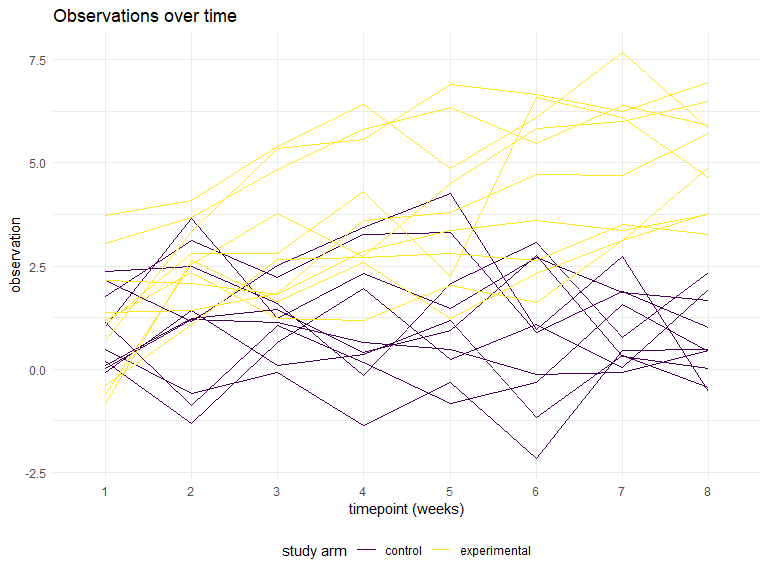
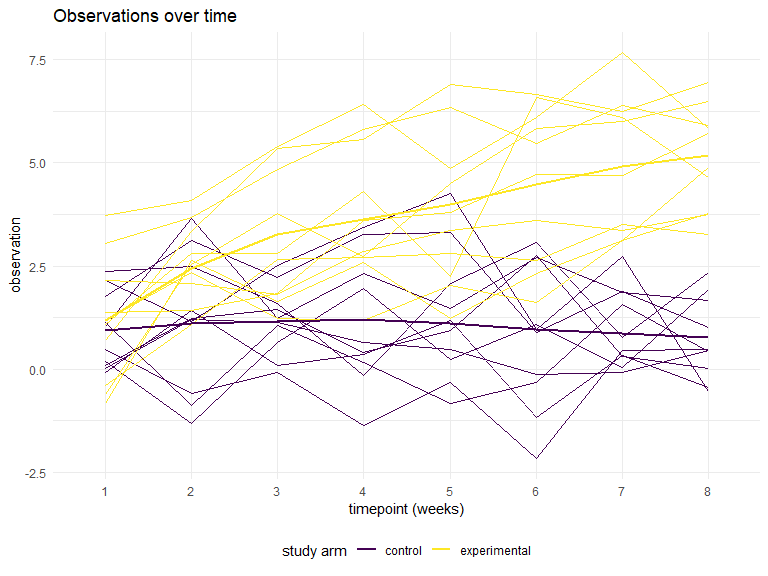
Add problem 3

diff --git a/p8105_hw5_jfh2150.md b/p8105_hw5_jfh2150.md
@@ -5,8 +5,6 @@ Ford Holland
 
 ## Problem 1
 
-Function to replace missing values in numeric and character vectors.
-
 ``` r
 replace_na = function(x) {
   if (!(is.numeric(x) | is.character(x))) {
@@ -21,9 +19,6 @@ replace_na = function(x) {
   }
 }
 ```
-
-Apply this function to the columns of `iris_with_missing` using a `map`
-statement.
 
 ``` r
 iris_imputed = map_df(.x = iris_with_missing, ~replace_na(.x))
@@ -58,19 +53,17 @@ df = tibble(
       map(pivot_longer, 
           week_1:week_8,
           names_to = "week", 
-          values_to = "observation"),
+          values_to = "observation",
+          names_prefix = "week_"),
     file = str_replace(file, "\\..*", "")
   ) %>% 
   rename(id = file)
 ```
 
-Make a spaghetti plot showing observations on each subject over time,
-and comment on differences between groups.
-
-It seems the treatment received by the experiment arm caused a
-noticeable increase in the observations. In fact, the control arm trends
-downward slightly over time, while the treatment arm displays a
-stronger, positive trend.
+It seems the treatment received by the experimental arm has a detectable
+effect. The observations for the experimental arm increase sharply in
+the first three weeks and continue the trend at a slightly lower rate
+over time. The control group’s observations remain consistent over time.
 
 ``` r
 df %>% 
@@ -78,30 +71,107 @@ df %>%
   mutate(
     group = factor(str_detect(id, "con"), 
                    levels = c(TRUE, FALSE),
-                   labels = c("control", "experimental")),
-    week = str_replace(week, "week_", "")
-    ) %>% 
+                   labels = c("control", "experimental"))
+  ) %>% 
   ggplot(aes(x = week, y = observation, group = id, color = group)) +
   geom_line() +
+  geom_smooth(aes(group = group), se = FALSE) +
   labs(title = "Observations over time",
        x = "timepoint (weeks)",
        y = "observation",
        color = "study arm")
 ```
 
+    ## `geom_smooth()` using method = 'loess' and formula 'y ~ x'
+
 <img src="p8105_hw5_jfh2150_files/figure-gfm/unnamed-chunk-4-1.png" width="90%" />
 
+## Problem 3
+
 ``` r
-# brfss_smart2010 %>% 
-#   filter(response == "Excellent") %>% 
-#   group_by(location_abbr, year) %>% 
-#   mutate(data_value_avg = mean(data_value)) %>% 
-#   select(year, location_abbr, data_value_avg) %>% 
-#   ungroup() %>% 
-#   ggplot(aes(x = year, y = data_value_avg)) +
-#   geom_line(aes(group = location_abbr, color = location_abbr)) +
-#   theme(legend.position = "none") +
-#   labs(title = "Average BRFSS scores over time for all states",
-#        x = "Year", 
-#        y = "BRFSS score")
+sim_regression = function(beta_1) {
+  sim_data = tibble(
+    x1 = rnorm(30, mean = 0, sd = 1),
+    y = 2 + beta_1 * x1 + rnorm(30, 0, sqrt(50))
+  )
+  
+  ls_fit = lm(y ~ x1, data = sim_data)
+  
+  broom::tidy(ls_fit) %>% 
+    janitor::clean_names() %>% 
+    filter(term == "x1") %>%
+    select(estimate, p_value)
+}
 ```
+
+``` r
+sim_results = 
+  rerun(10000, sim_regression(beta_1 = 0)) %>% 
+  bind_rows()
+```
+
+The plot below demonstrates that as the size of an effect increases, it
+becomes more likely that a false hypothesis will be rejected. The power
+of a test therefore increases with the with effect size.
+
+``` r
+sim_results = 
+  tibble(
+    beta_1 = 1:6
+  ) %>% 
+  mutate(
+    output_lists = map(.x = beta_1, ~rerun(10000, sim_regression(beta_1 = .x))),
+    estimate_dfs = map(output_lists, bind_rows)
+  ) %>% 
+  select(-output_lists) %>% 
+  unnest(estimate_dfs)
+```
+
+``` r
+sim_results %>% 
+  group_by(beta_1) %>%
+  mutate(null_rejected = as.numeric(p_value < 0.05),
+         prop_rejected = mean(null_rejected)) %>% 
+  ggplot(aes(x = beta_1, y = prop_rejected)) +
+  geom_bar(stat = "identity") +
+  scale_x_continuous(breaks = 1:6) +
+  labs(title = "Proportion of rejected hypotheses by effect size",
+       x = "coefficient value", 
+       y = "percent rejected")
+```
+
+<img src="p8105_hw5_jfh2150_files/figure-gfm/unnamed-chunk-8-1.png" width="90%" />
+
+When the effect size is small, the sample averages of significant
+estimates do not approximate the true effect size very accurately. As
+the true effect size increases, the averages converge to the true value.
+Small effects are more difficult to detect, so when the true effect is
+small, the larger estimates are those found to be significant on
+average.
+
+``` r
+sim_results %>% 
+  group_by(beta_1) %>% 
+  mutate(
+    null_rejected = as.numeric(p_value < 0.05),
+    avg_estimate = mean(estimate)
+  ) %>% 
+  group_by(beta_1, null_rejected) %>%
+  mutate(
+    avg_sig_estimate = mean(estimate),
+    avg_sig_estimate = replace(avg_sig_estimate, p_value >= 0.05, NA)
+  ) %>% 
+  drop_na() %>%
+  ggplot(aes(x = beta_1)) +
+  geom_line(aes(y = avg_estimate, color = "all estimates")) +
+  geom_line(aes(y = avg_sig_estimate, color = "null rejected")) +
+  scale_x_continuous(breaks = 1:6) +
+  labs(title = "True effect size vs. average estimated effect size",
+       x = "true effect size",
+       y = "average of estimated effect sizes",
+       color = "")
+```
+
+<img src="p8105_hw5_jfh2150_files/figure-gfm/unnamed-chunk-9-1.png" width="90%" />
+
+<br> <br>
